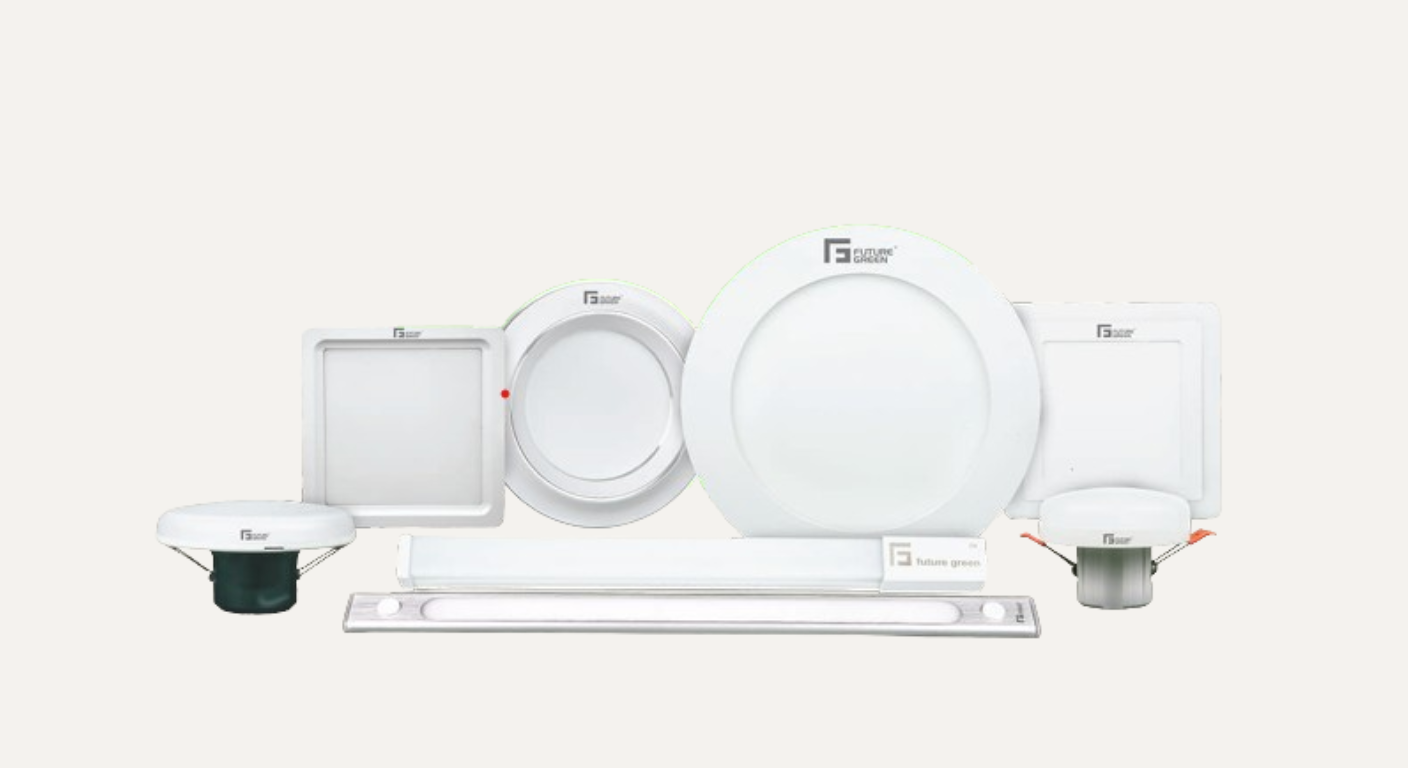
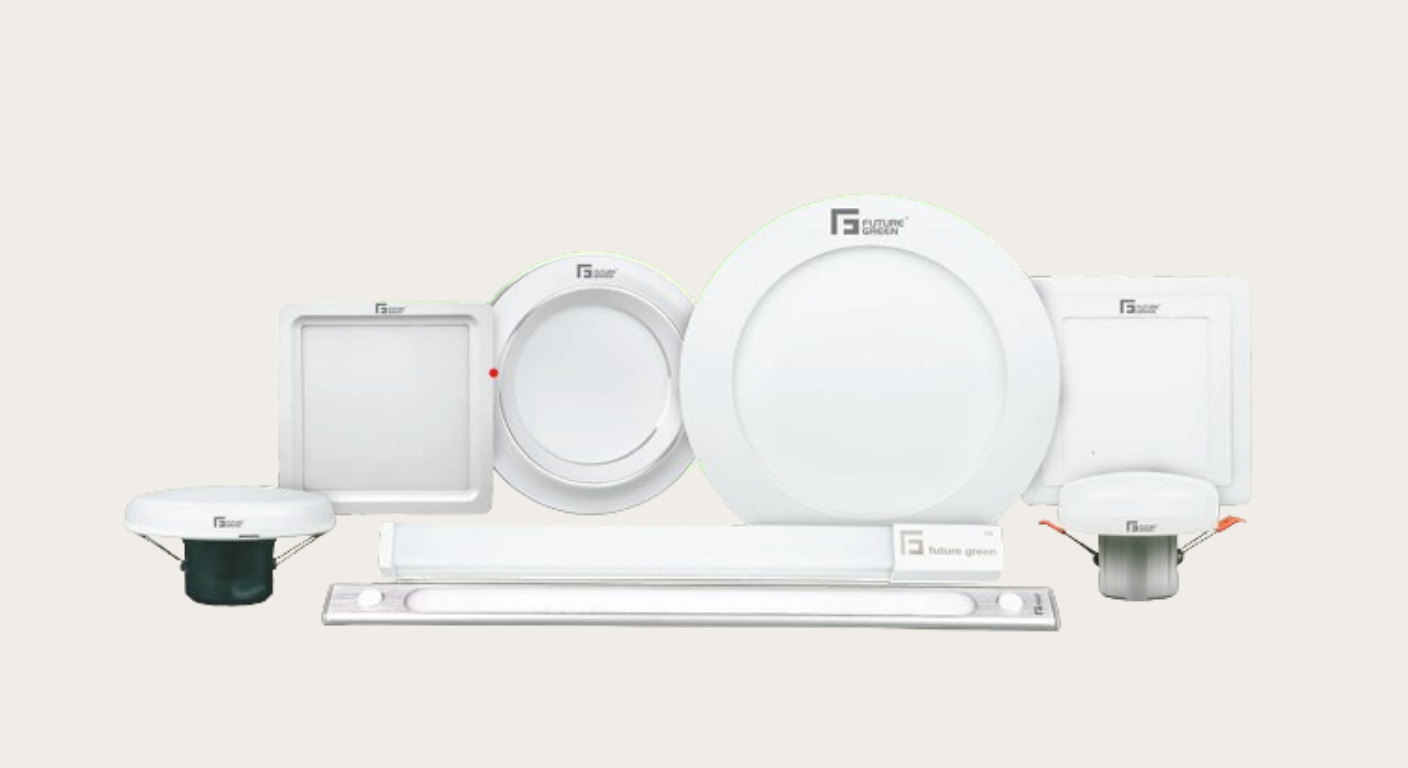
final changes

diff --git a/products.html b/products.html
@@ -140,8 +140,8 @@
             <p class="prod-header-sub" id="listSub">Browse our complete range of LED lighting solutions.</p>
           </div>
           <div class="prod-header-actions">
-            <!-- Triggers window.print() which uses the @media print CSS in products.css -->
-            <button class="btn-pdf" onclick="window.print()">
+            <!-- Force-downloads the PDF catalogue -->
+            <button class="btn-pdf" onclick="const a=document.createElement('a');a.href='resources/future-green-catalogue.pdf';a.download='Future-Green-Catalogue.pdf';a.click()">
               <svg width="14" height="14" viewBox="0 0 24 24" fill="none" stroke="currentColor" stroke-width="2.5" aria-hidden="true">
                 <path d="M21 15v4a2 2 0 01-2 2H5a2 2 0 01-2-2v-4"/>
                 <polyline points="7 10 12 15 17 10"/><line x1="12" y1="15" x2="12" y2="3"/>